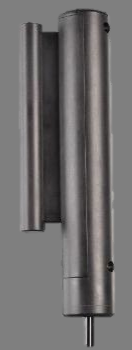
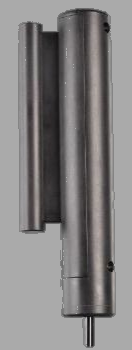
minor changes post-piloting
Squeeze command changed to Go
Background grey lightened
Change active keys to a,s,d, more ergonomic
setup functions to interface properly with medoc

diff --git a/Learned_helplessness_practice.m b/Learned_helplessness_practice.m
@@ -1,0 +1,101 @@
+function Learned_helplessness_practice()
+
+    %% Miscellaneous setup
+    Screen('Preference', 'SkipSyncTests', 1); %%%!!!! ONLY FOR TESTING
+    KbName('UnifyKeyNames');
+    activeKeys = [KbName('a') KbName('s') KbName('d') KbName('t')];
+    RestrictKeysForKbCheck(activeKeys);
+    %medoc = serialport("COM4",2400)
+    medoc = 'medoc';
+    %ListenChar(2);
+    HideCursor;
+
+    %% This will setup the task
+    addpath(genpath('./Functions'));
+    id = 'practice'
+    exp = task(id,224,[75, 25; 50, 50; 25, 75],[1, 0],[50,50,20,50,50],4);
+    filename = [pwd, '/Data/', exp.id, '.mat'];
+    save(filename, 'exp');
+
+    %% Now we will setup psychtoolbox
+    % Psychtoolbox setup options from https://peterscarfe.com/insertedCode/TotallyMinimalWithInfoDemo.html
+   
+    % Here we call some default settings for setting up Psychtoolbox
+    PsychDefaultSetup(2);
+    
+    % Get the screen numbers. 
+    screens = Screen('Screens');
+    
+    % To draw we select the maximum of these numbers. So in a situation where we
+    % have two screens attached to our monitor we will draw to the external
+    % screen. If I were to select the minimum of these numbers then I would be
+    % displaying on the physical screen of my laptop.
+    screenNumber = max(screens);
+    
+    % Define black and white (white will be 1 and black 0). This is because
+    % luminace values are genrally defined between 0 and 1.
+    white = WhiteIndex(screenNumber);
+    black = BlackIndex(screenNumber);
+    
+    % Do a simply calculation to calculate the luminance value for grey. This
+    % will be half the luminace value for white
+    grey = white / 1.5;
+
+    % Open an on screen window and color it grey. 
+    [window, windowRect] = PsychImaging('OpenWindow', screenNumber, grey);
+    
+    % Get the size of the on screen window in pixels, these are the last two
+    % numbers in "windowRect" 
+    [screenXpixels, screenYpixels] = Screen('WindowSize', window);
+
+    %% Loading the images
+    img1 = Screen('MakeTexture', window, imread("img/img1.png"));
+    img2 = Screen('MakeTexture', window, imread("img/img2.png"));
+    img3 = Screen('MakeTexture', window, imread("img/img3.png"));
+    win = Screen('MakeTexture', window, imread("img/question.png"));
+    loss = Screen('MakeTexture', window, imread("img/question.png"));
+    squeezebutton = Screen('MakeTexture', window, imread("img/grip.png"));
+
+    %% Setup for ratings
+    question_pain  = ['How much' '\n PAIN' '\n are you currently in?'];
+    question_motiv  = ['How' '\n MOTIVATED' '\n are you for pain relief?'];
+    endPoints = {'0', '5', '10'};
+    position_pain = 0;
+    position_motiv = 0;
+
+    %% First, we will give the participant some instructions
+    instructions('These are instructions', window, screenYpixels);
+    
+    %% Now we will start the task
+
+    %% INITAL LEARNING
+    for i = 1:10
+        exp.curr_trial = exp.curr_trial + 1;
+        waittime = normrnd(1, 0.005);
+        max_rt = duration(0,0,1);
+        %[exp.allvec{exp.curr_trial}, exp.waitvec{exp.curr_trial}, exp.pressvec{exp.curr_trial}, exp.rt(exp.curr_trial), exp.rt_intime(exp.curr_trial), exp.squeezetime(exp.curr_trial), exp.force(exp.curr_trial), exp.falsestart(exp.curr_trial), exp.time{exp.curr_trial}] = squeezeptb(window, screenYpixels, waittime, max_rt);
+        exp.selected(exp.curr_trial) = img(img1, img2, img3, exp.loc(exp.curr_trial,:), window, screenXpixels, screenYpixels, 10);
+        if exp.selected(exp.curr_trial) ~= 0
+            exp = getOutcome(exp, exp.curr_trial, 1);
+            img_alpha(img1, img2, img3, exp.loc(exp.curr_trial,:), window, screenXpixels, screenYpixels, 2, exp.selected(exp.curr_trial));
+        else
+            noresp(window, screenYpixels);
+            WaitSecs(2);
+        end
+        [position_pain, RT_pain, answer] = slideScale(window, question_pain, windowRect, endPoints, 'device', 'keyboard', 'stepsize', 15, 'responseKeys', [activeKeys(2) activeKeys(1) activeKeys(3)], 'startposition', position_pain, 'range', 2, 'aborttime', 5);
+        [position_motiv, RT_motiv, answer] = slideScale(window, question_motiv, windowRect, endPoints, 'device', 'keyboard', 'stepsize', 15, 'responseKeys', [activeKeys(2) activeKeys(1) activeKeys(3)], 'startposition', position_motiv, 'range', 2, 'aborttime', 5);
+        exp.pain_pos(exp.curr_trial) = position_pain/10;
+        exp.pain_rt(exp.curr_trial) = RT_pain/1000;
+        exp.motiv_pos(exp.curr_trial) = position_motiv/10;
+        exp.motiv_rt(exp.curr_trial) = RT_motiv/1000;
+        save(filename, 'exp');
+        if exp.selected(exp.curr_trial) ~= 0
+            if exp.outcome(exp.curr_trial) == 1
+                sendTrigger(medoc)
+            end
+            img_outcome(img1, img2, img3, win, loss, window, screenXpixels, screenYpixels, 4, exp.selected(exp.curr_trial), exp.outcome(exp.curr_trial), squeezebutton, exp.rt_intime(exp.curr_trial));
+        end
+    end
+    %% end of task
+    ListenChar(1);
+    sca;

diff --git a/Learned_helplessness.m b/Learned_helplessness.m
@@ -3,9 +3,9 @@ function Learned_helplessness()
     %% Miscellaneous setup
     Screen('Preference', 'SkipSyncTests', 1); %%%!!!! ONLY FOR TESTING
     KbName('UnifyKeyNames');
-    activeKeys = [KbName('b') KbName('y') KbName('g') KbName('t')];
+    activeKeys = [KbName('a') KbName('s') KbName('d') KbName('t')];
     RestrictKeysForKbCheck(activeKeys);
-    medoc = serialport(,9600)
+    medoc = serialport("COM4",2400);
     %medoc = 'medoc';
     %ListenChar(2);
     HideCursor;
@@ -40,7 +40,7 @@ function Learned_helplessness()
     
     % Do a simply calculation to calculate the luminance value for grey. This
     % will be half the luminace value for white
-    grey = white / 2;
+    grey = white / 1.5;
     
     % Open an on screen window and color it grey. 
     [window, windowRect] = PsychImaging('OpenWindow', screenNumber, grey);
@@ -92,7 +92,7 @@ function Learned_helplessness()
         save(filename, 'exp');
         if exp.selected(exp.curr_trial) ~= 0
             if exp.outcome(exp.curr_trial) == 1
-                sendTrigger()
+                sendTrigger(medoc)
             end
             img_outcome(img1, img2, img3, win, loss, window, screenXpixels, screenYpixels, 4, exp.selected(exp.curr_trial), exp.outcome(exp.curr_trial), squeezebutton, exp.rt_intime(exp.curr_trial));
         end
@@ -121,7 +121,7 @@ function Learned_helplessness()
         save(filename, 'exp');
         if exp.selected(exp.curr_trial) ~= 0
             if exp.outcome(exp.curr_trial) == 1
-                sendTrigger()
+                sendTrigger(medoc)
             end
             img_outcome(img1, img2, img3, win, loss, window, screenXpixels, screenYpixels, 4, exp.selected(exp.curr_trial), exp.outcome(exp.curr_trial), squeezebutton, exp.rt_intime(exp.curr_trial));
         end
@@ -150,7 +150,7 @@ function Learned_helplessness()
         save(filename, 'exp');
         if exp.selected(exp.curr_trial) ~= 0
             if exp.outcome(exp.curr_trial) == 1
-                sendTrigger()
+                sendTrigger(medoc)
             end
             img_outcome(img1, img2, img3, win, loss, window, screenXpixels, screenYpixels, 4, exp.selected(exp.curr_trial), exp.outcome(exp.curr_trial), squeezebutton, exp.rt_intime(exp.curr_trial));
         end
@@ -179,7 +179,7 @@ function Learned_helplessness()
         save(filename, 'exp');
         if exp.selected(exp.curr_trial) ~= 0
             if exp.outcome(exp.curr_trial) == 1
-                sendTrigger()
+                sendTrigger(medoc)
             end
             img_outcome(img1, img2, img3, win, loss, window, screenXpixels, screenYpixels, 4, exp.selected(exp.curr_trial), exp.outcome(exp.curr_trial), squeezebutton, exp.rt_intime(exp.curr_trial));
         end
@@ -208,7 +208,7 @@ function Learned_helplessness()
         save(filename, 'exp');
         if exp.selected(exp.curr_trial) ~= 0
             if exp.outcome(exp.curr_trial) == 1
-                sendTrigger()
+                sendTrigger(medoc)
             end
             img_outcome(img1, img2, img3, win, loss, window, screenXpixels, screenYpixels, 4, exp.selected(exp.curr_trial), exp.outcome(exp.curr_trial), squeezebutton, exp.rt_intime(exp.curr_trial));
         end

diff --git a/Functions/joystick/squeezeptb.m b/Functions/joystick/squeezeptb.m
@@ -27,7 +27,7 @@ function [allvec, waitvec, pressvec, rt, rt_intime, squeezetime, force, falsesta
         gate = false;
 
         % loop over response time, note, this is 1.5x maximum rt in length
-        DrawFormattedText(window, 'Squeeze!', 'center', 'center',screenYpixels * 0.75, [0 0 1]);
+        DrawFormattedText(window, 'Go!!!', 'center', 'center', [0 0.5 0]);
         Screen('Flip', window);
         while datetime(now, 'ConvertFrom','datenum', 'Format', 'HH:mm:ss.SSS') < go_time + max_rt*1.5    
             [~, y, ~, ~] = WinJoystickMex(0);

diff --git a/Functions/Display/img.m b/Functions/Display/img.m
@@ -46,11 +46,11 @@ function chosen = img(img1, img2, img3, positions, window, screenXpixels, screen
     end
 
     if keyCode ~= false
-        if keyCode == 'b'
+        if keyCode == 'a'
             chosen = find(positions == 1);
-        elseif keyCode == 'y'
+        elseif keyCode == 's'
             chosen = find(positions == 2);
-        elseif keyCode == 'g'
+        elseif keyCode == 'd'
             chosen = find(positions == 3);
         end
     else 

diff --git a/Functions/Work/sendTrigger.m b/Functions/Work/sendTrigger.m
@@ -5,5 +5,5 @@
 % using the serialport function
 
 function sendTrigger(device)
-    %write(device,'t',"char");
-    disp('t'); %only in for testing purposes when no serial port configured
+    write(device,'t',"char");
+    %disp('t'); %only in for testing purposes when no serial port configured
